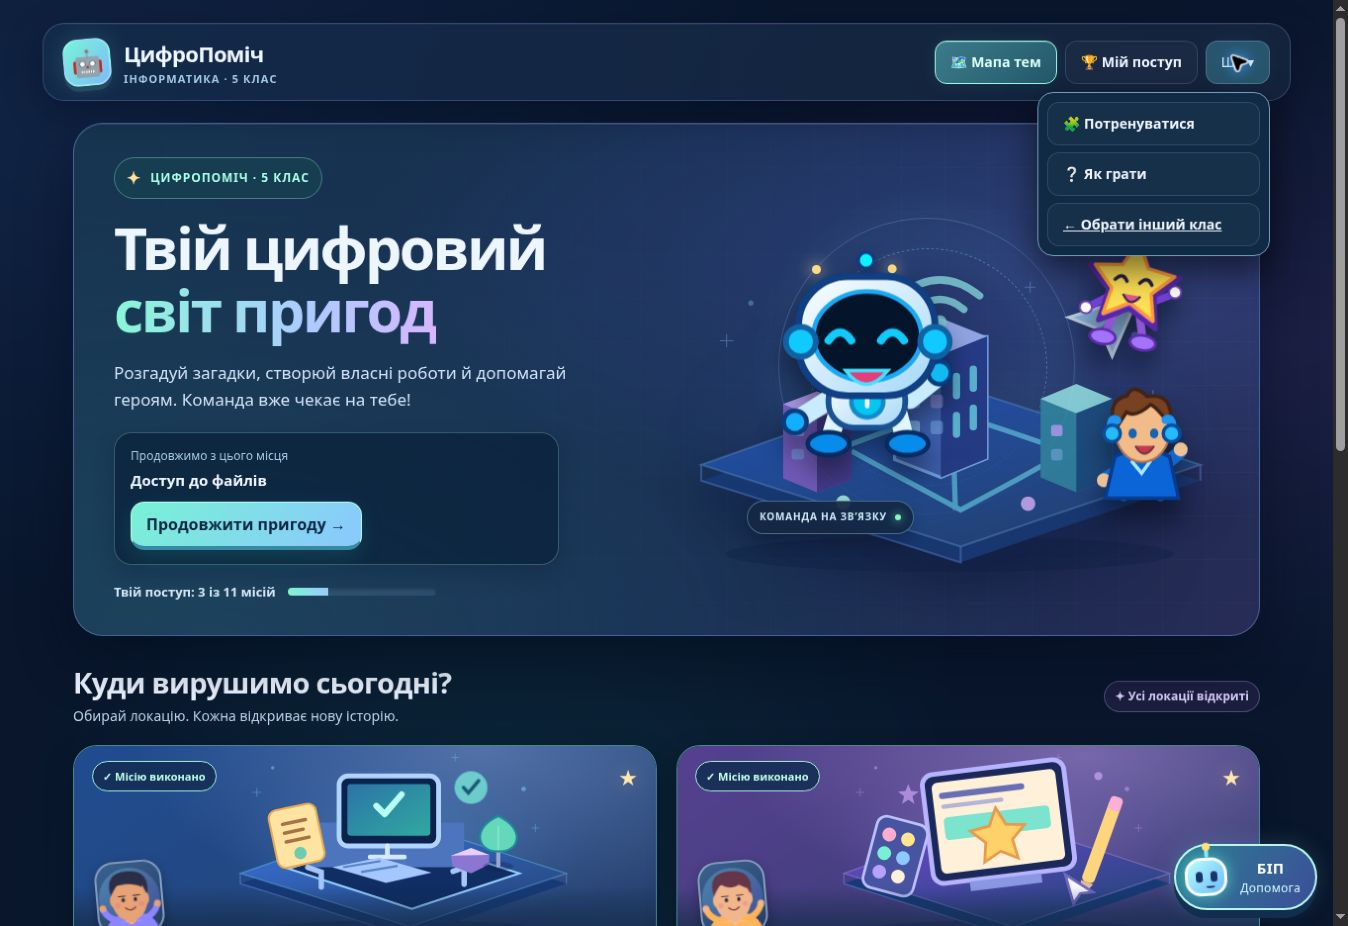
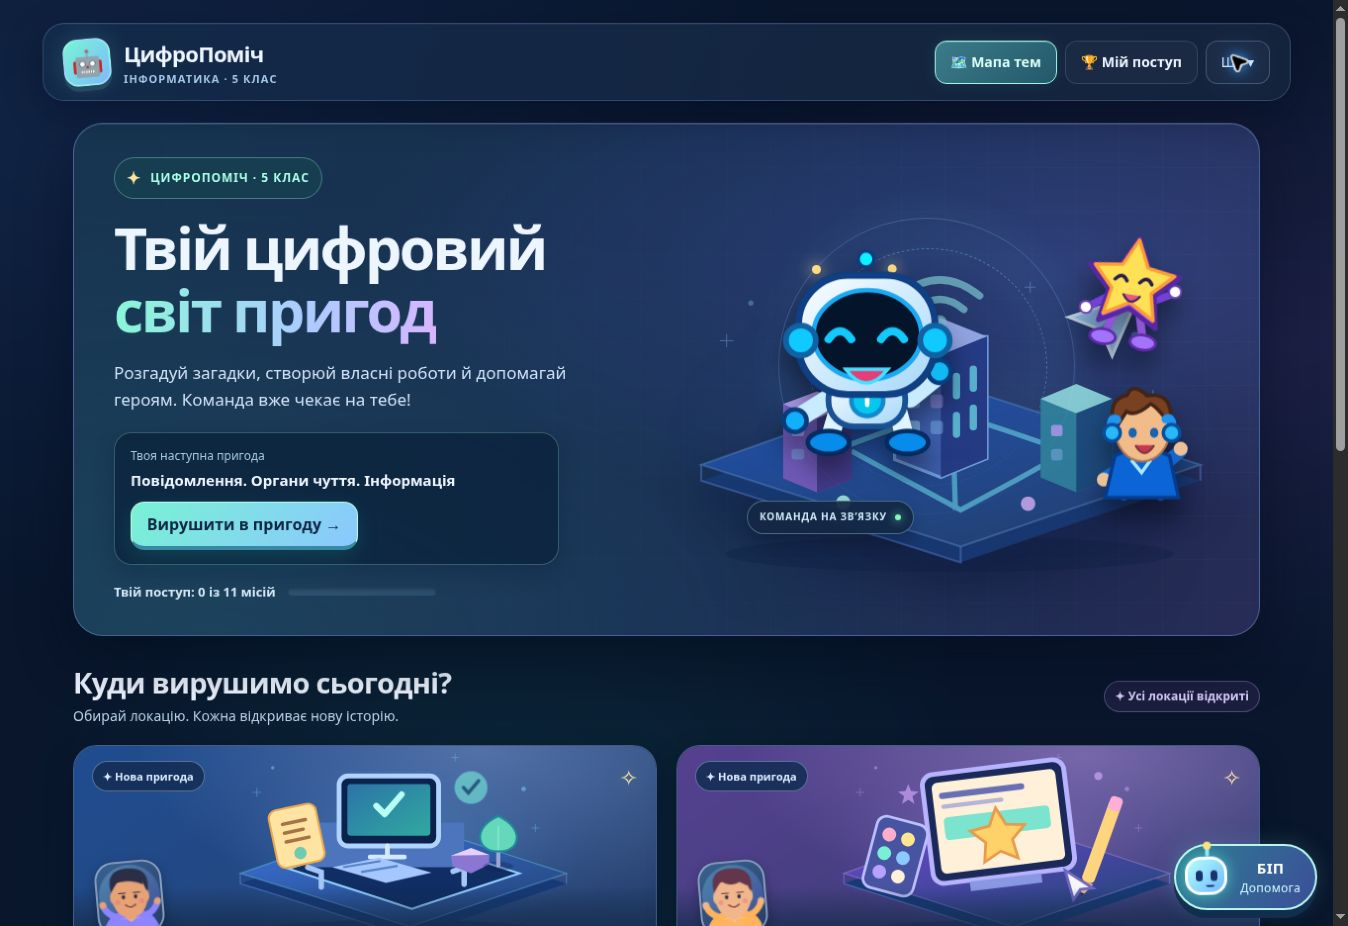
Record published portal and explicit success feedback verification

diff --git a/docs/adventure-update.md b/docs/adventure-update.md
@@ -19,4 +19,6 @@
 
 Переглянуто публічне оформлення Prodigy та Minecraft-активностей Code.org: ілюстровані локації, великі обкладинки завдань, виразні персонажі. Чужі зображення й код не копіювалися. Публічний перегляд не включав повного проходження їхніх ігор з обліковим записом.
 
-Знімок локальної перевірки: `portal-adventure.jpg`. Показаний на ньому прогрес є тестовим.
+Після успішної публікації повторно перевірено живий сайт: `#teacher` повертає на мапу, а правильне рішення першої мережевої місії відкриває пояснення та чекає на «Далі». Натискання «Далі» переводить до наступного завдання.
+
+Знімки живої перевірки: `portal-adventure.jpg` та `portal-success.jpg`.
